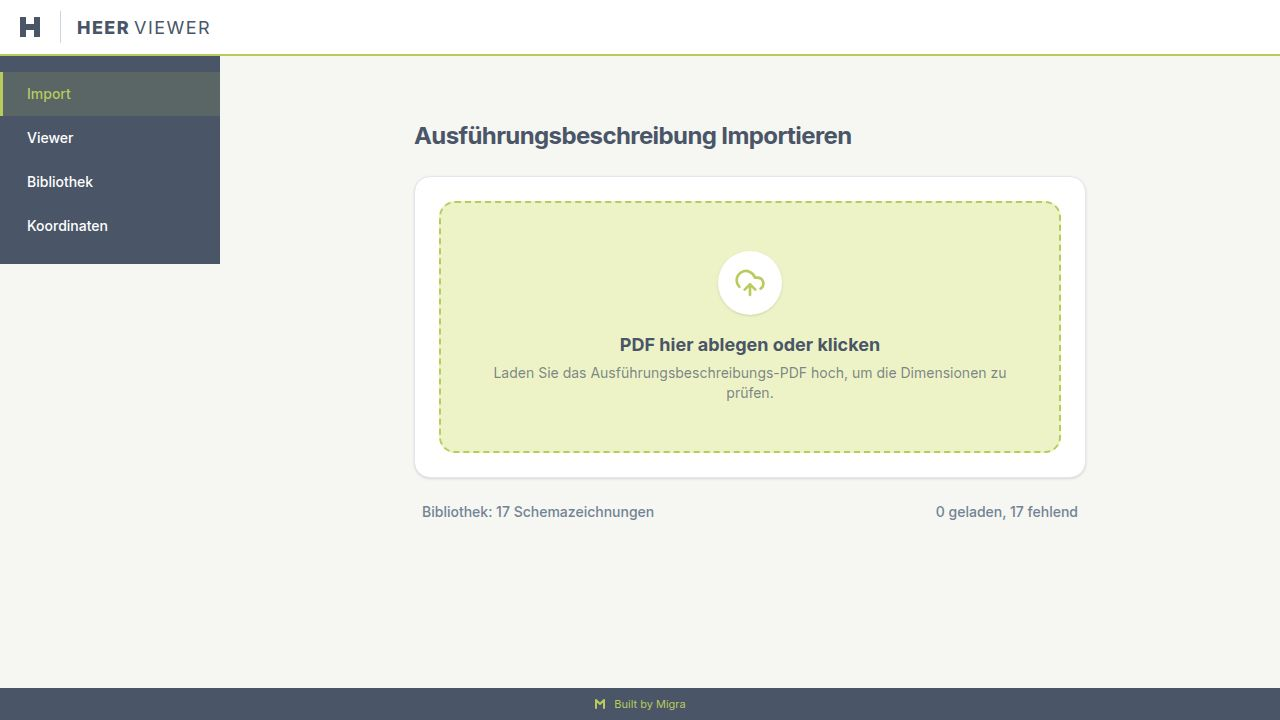
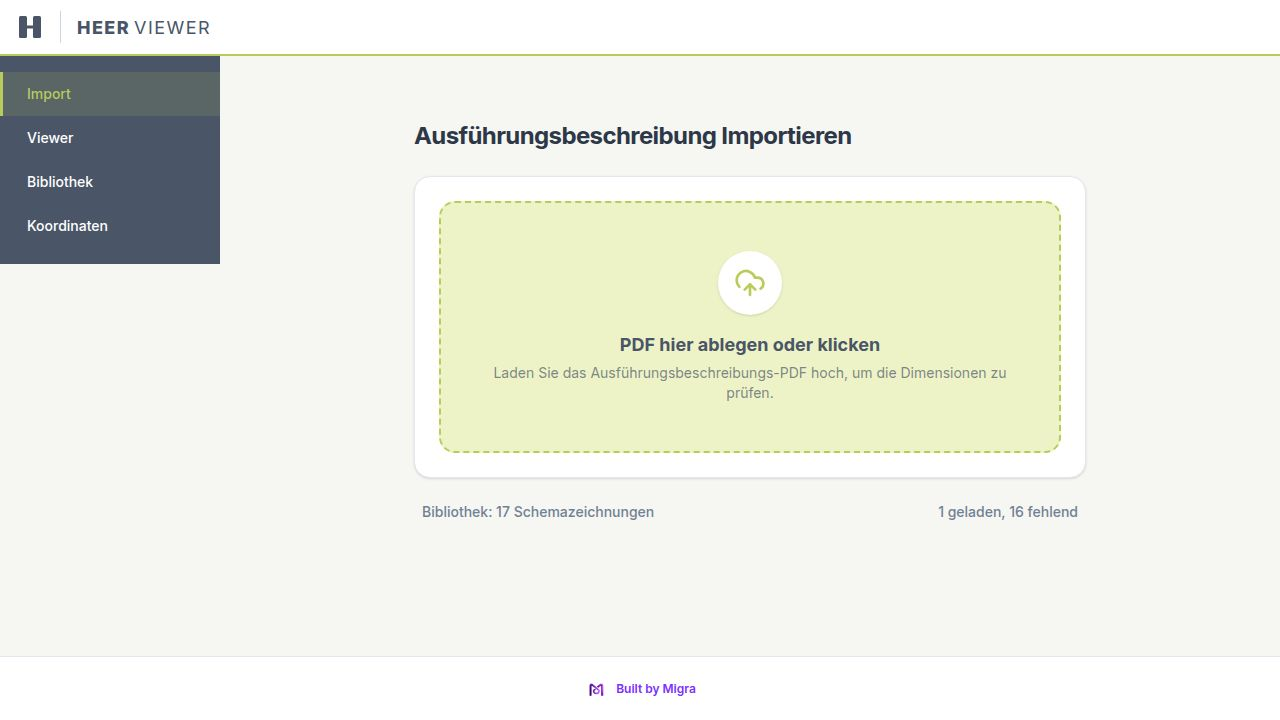
Improve overlay rendering and value display on PDF documents
Update component for improved PDF overlay rendering, adjusting Y coordinates for page height discrepancies, removing label prefixes, and enhancing text styling. Expose app store in development for testing.

Replit-Commit-Author: Agent
Replit-Commit-Session-Id: 886c37d7-19d7-40e3-a587-04b30689ddc2
Replit-Commit-Checkpoint-Type: full_checkpoint
Replit-Commit-Event-Id: 019841e1-ebc7-400c-bee9-af2b7e06e3f2
Replit-Commit-Screenshot-Url: https://storage.googleapis.com/screenshot-production-us-central1/cc016f4e-7a0c-4e35-b3bf-60c65b721dd4/886c37d7-19d7-40e3-a587-04b30689ddc2/v6Y8wzd
Replit-Helium-Checkpoint-Created: true

Changed region(s): [[0.0, 0.9472, 1.0, 1.0], [0.3125, 0.1833, 0.6562, 0.2139], [0.7188, 0.7028, 0.8125, 0.7333]]

diff --git a/artifacts/heer-viewer/src/components/pdf-viewer.tsx b/artifacts/heer-viewer/src/components/pdf-viewer.tsx
@@ -111,17 +111,38 @@ export function PdfViewer({
           transform: [1, 0, 0, 1, offsetX, offsetY],
         }).promise;
 
+        // Server-side detection used pageH=842 as fallback (pdf-parse vp.height
+        // is undefined). pdfjs-dist v5 returns the real height. Correct the gap.
+        const viewport1 = page.getViewport({ scale: 1 });
+        const naturalPageH = viewport1.height;
+        const DETECT_PAGE_H = 842;
+        const yAdjust = naturalPageH - DETECT_PAGE_H;
+
         overlayContext.clearRect(0, 0, pdfCanvas.width, pdfCanvas.height);
-        overlayContext.font = "bold 11px Inter, sans-serif";
+        overlayContext.font = "bold 13px Inter, sans-serif";
         overlayContext.textBaseline = "middle";
 
+        const PAD = 4;
+        const TEXT_H = 13;
+        const HALF_H = Math.ceil(TEXT_H / 2) + PAD; // ~11px
+
         for (const overlay of overlays) {
-          const cx = overlay.x * zoom + offsetX;
-          const cy = overlay.y * zoom + offsetY;
-          const text = `${overlay.label}: ${overlay.value}`;
+          if (!Number.isFinite(overlay.x) || !Number.isFinite(overlay.y)) continue;
+
+          // Correct Y for the pageH discrepancy
+          const correctedY = overlay.y + yAdjust;
+          const rawCx = overlay.x * zoom + offsetX;
+          const rawCy = correctedY * zoom + offsetY;
+
+          const text = overlay.value; // value only — not "L1: value"
           const tw = overlayContext.measureText(text).width;
-          overlayContext.fillStyle = "#FFFFFF";
-          overlayContext.fillRect(cx - 2, cy - 7, tw + 6, 14);
+
+          // Clamp so text never renders outside the visible canvas
+          const cx = Math.max(PAD, Math.min(rawCx, pdfCanvas.width - tw - PAD));
+          const cy = Math.max(HALF_H, Math.min(rawCy, pdfCanvas.height - HALF_H));
+
+          overlayContext.fillStyle = "rgba(255,255,255,0.92)";
+          overlayContext.fillRect(cx - PAD, cy - HALF_H, tw + PAD * 2, TEXT_H + PAD * 2);
           overlayContext.fillStyle = "#4A5568";
           overlayContext.fillText(text, cx, cy);
         }

diff --git a/artifacts/heer-viewer/src/store.ts b/artifacts/heer-viewer/src/store.ts
@@ -10,3 +10,8 @@ export const useAppStore = create<AppState>((set) => ({
   parsedExecution: null,
   setParsedExecution: (data) => set({ parsedExecution: data }),
 }));
+
+// Expose in dev so Playwright/testing can seed state without a real PDF import
+if (import.meta.env.DEV) {
+  (window as unknown as Record<string, unknown>).__appStore = useAppStore;
+}

diff --git a/FIXES.md b/FIXES.md
@@ -32,6 +32,23 @@ The Koordinaten editor only has:
 ## 5. Overlay Rendering in Viewer
 Dimension values are overlaid on the PDF canvas
 at the auto-detected L1/L2 coordinates.
-Color: #4A5568, font: bold 11px Inter.
-White background rectangle behind each value.
+Color: #4A5568, font: bold 13px Inter.
+White background rectangle behind each value (4px padding).
 Coordinates are scaled by current render scale.
+Y coordinates must be corrected for the pageH detection fallback:
+  correctedY = stored_y + (actual_page_height - 842)
+where actual_page_height comes from pdfjs-dist viewport at scale=1.
+
+## 6. WORKING STATE CONFIRMED (do not break this!)
+- Auto-detection of L1-L20 positions on page 2 works
+  correctly for PLK_W-BO_G-MV_AL
+- Execution description parsing correctly extracts
+  all BO/SE/KS/DE/global dimensions
+- Schema matching by filename substring works
+- Dimension table in right sidebar shows correct
+  values per section
+- Any future change must not break this flow.
+  Before changing detectLabels.ts, parseExecution.ts,
+  or the matching logic, re-test with
+  PLK_W-BO_G-MV_AL execution description and confirm
+  the dimension table still shows correct values.